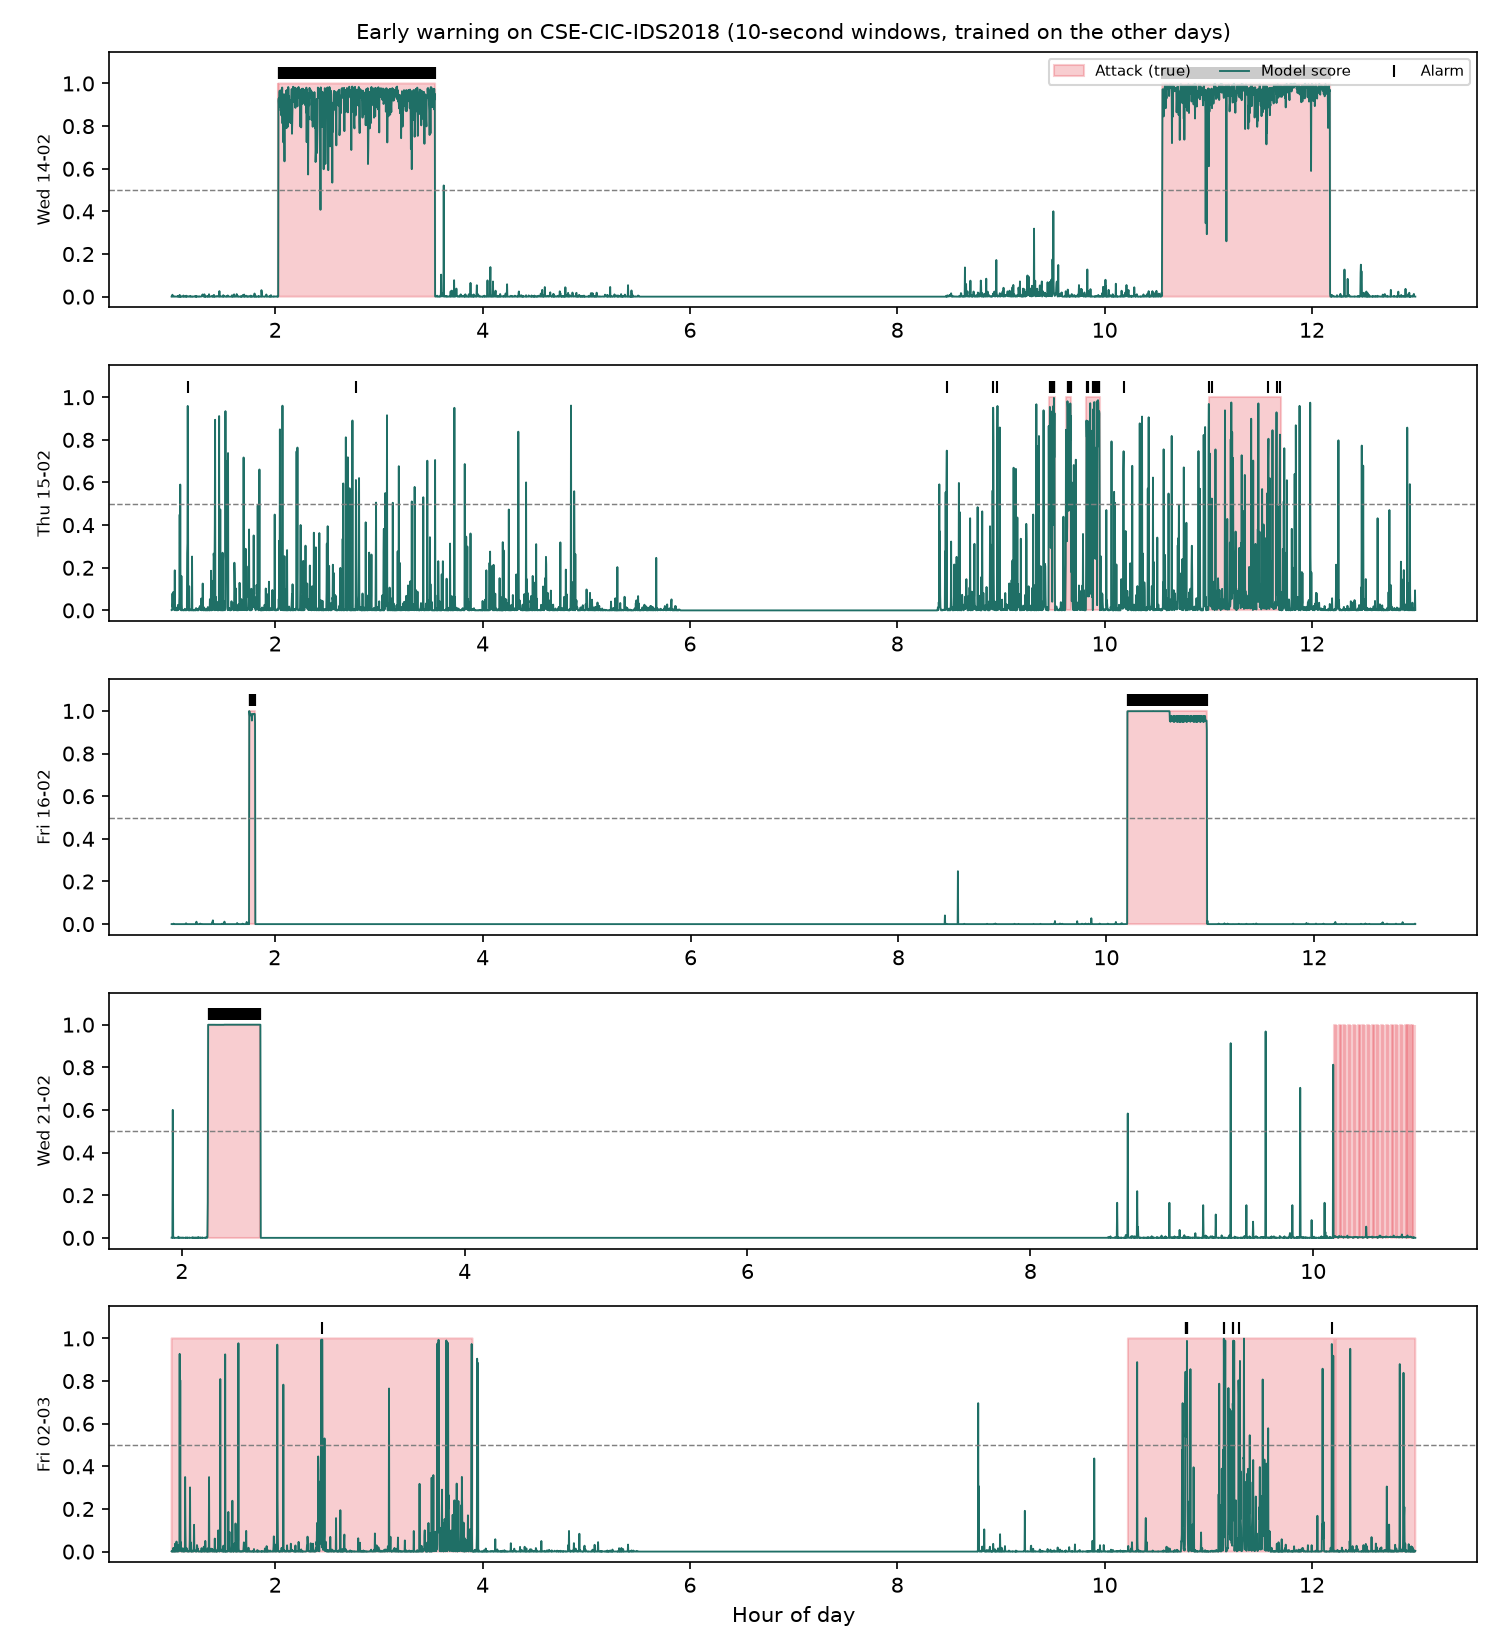
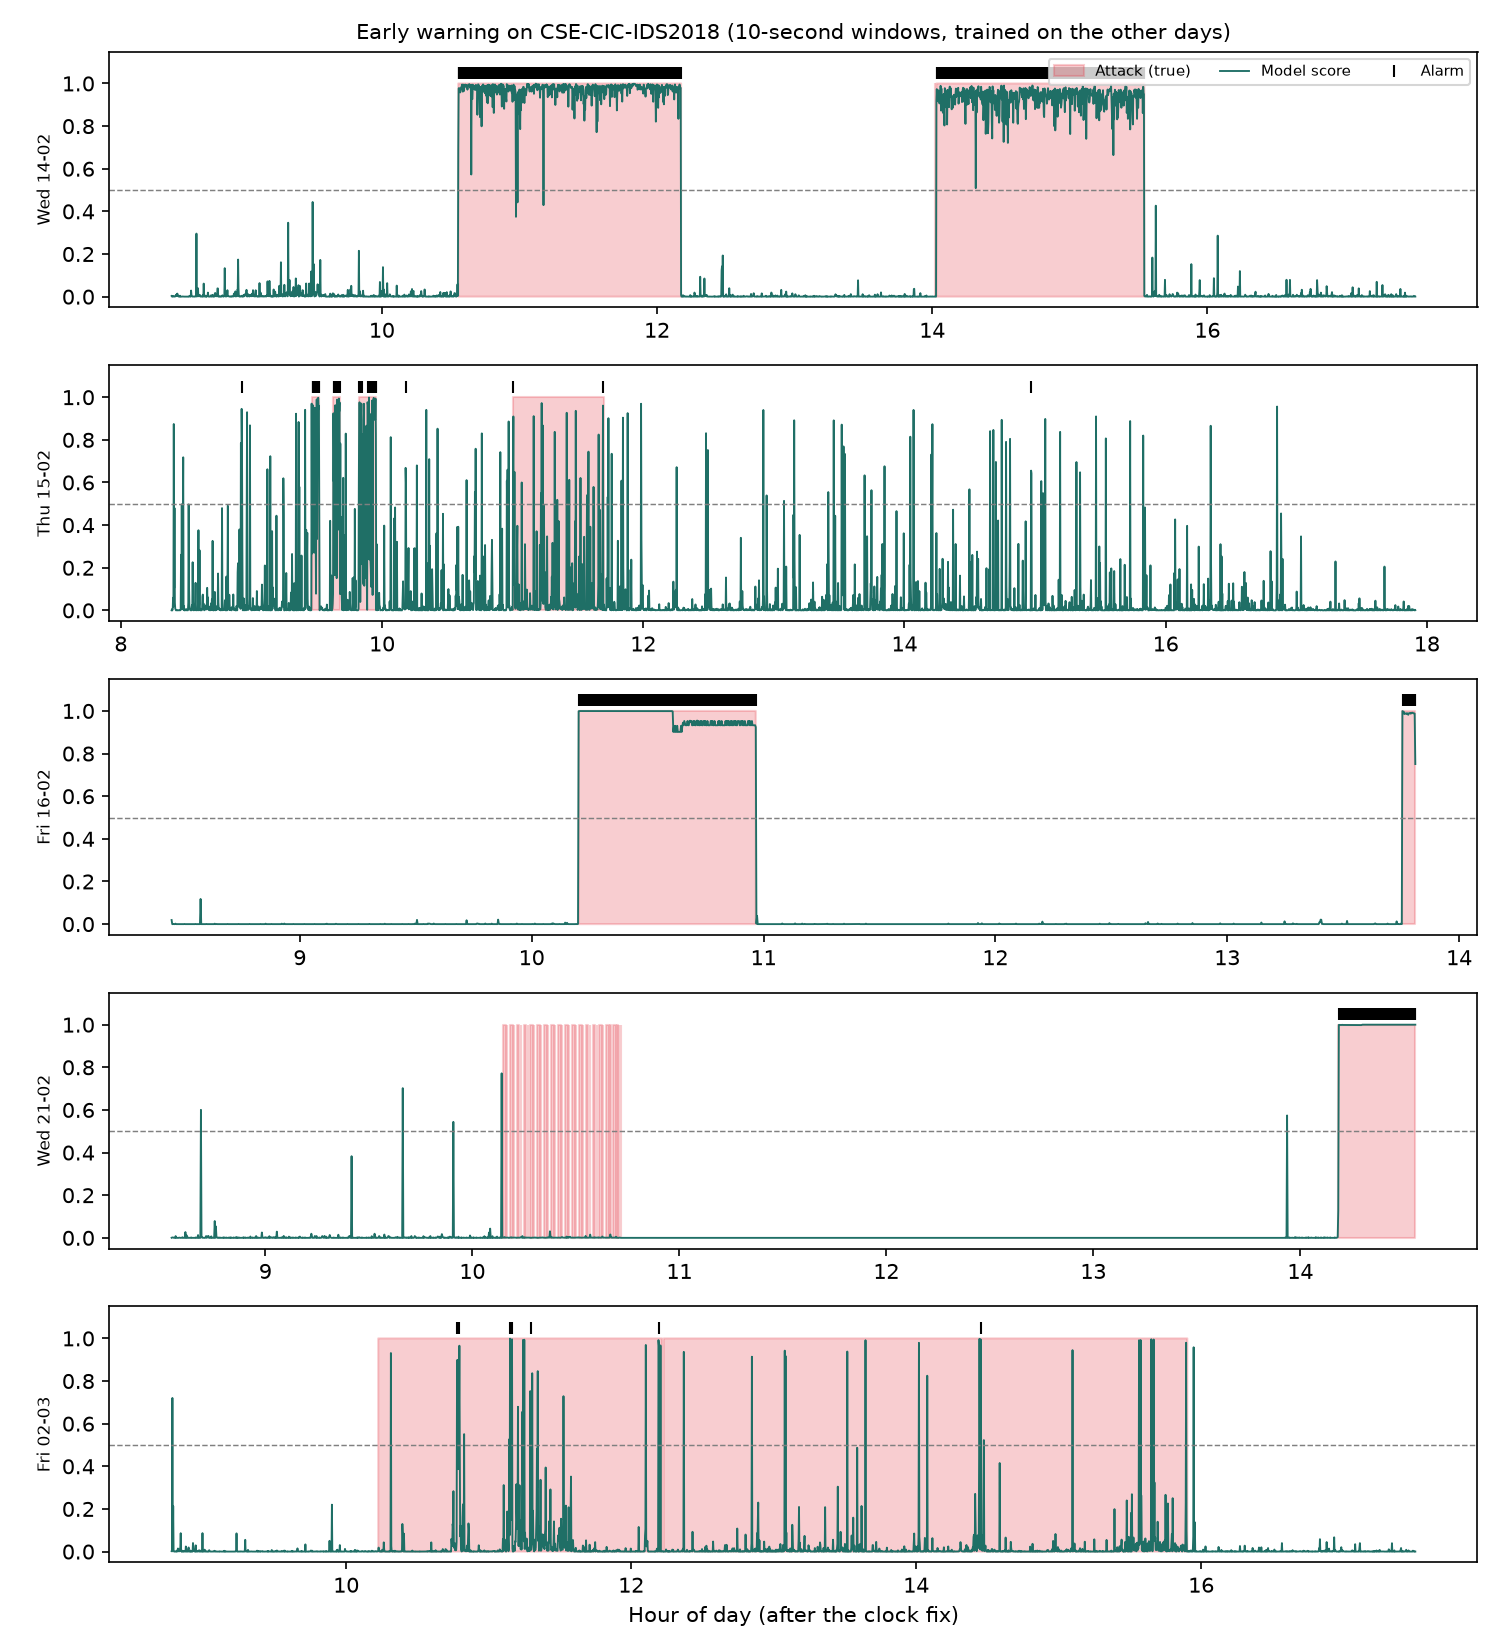
Tool 3: timestamp check, final early warning results

diff --git a/tool3_early_warning/early_warning.py b/tool3_early_warning/early_warning.py
@@ -13,7 +13,7 @@ from xgboost import XGBClassifier
 
 warnings.filterwarnings("ignore")
 
-# Tool 3: early warning on CSE-CIC-IDS2018.
+# Tool 3 (version 2): early warning on CSE-CIC-IDS2018.
 # Traffic is grouped into windows of W seconds. A model scores each window, and an alarm is raised
 # when two windows in a row score high. Optional: python tool3_early_warning/early_warning.py 30
 W = int(sys.argv[1]) if len(sys.argv) > 1 else 10
@@ -24,6 +24,7 @@ MIN_EPISODE = 3               # ignore attack episodes shorter than this many wi
 MERGE_GAP = max(1, 60 // W)   # attack windows closer than 60 seconds belong to one episode
 PRE = max(1, 60 // W)         # look back 60 seconds before an episode starts
 THRESH = 0.5                  # score level that counts as "high"
+CLOCK_FIX_BEFORE = 8          # the timestamps look like a 12-hour clock with no AM/PM: hours before 8 are really afternoon
 
 DAYS = [
     ("Wednesday-14-02", dt.date(2018, 2, 14), "Wed 14-02"),
@@ -77,17 +78,30 @@ def build_windows(prefix, expected, label):
         P = p if P is None else P.add(p, fill_value=0)
     feat = S / C.replace(0, np.nan)
     feat["n_flows"], feat["n_ports"], feat["attack_flows"] = N, P, A
-    full = pd.RangeIndex(int(feat.index.min()), int(feat.index.max()) + 1)
-    feat = feat.reindex(full)
-    for c in ["n_flows", "n_ports", "attack_flows"]:
-        feat[c] = feat[c].fillna(0)
-    for c in ["n_flows", "n_ports"]:   # how unusual is this window compared with the last 5 minutes?
-        base = feat[c].shift(1).rolling(max(5, 300 // W), min_periods=3).median()
-        feat[c + "_ratio"] = feat[c] / (base + 1)
     feat["t_start"] = feat.index * W
     feat["day"] = label
-    print(f"  {label}: {len(feat)} windows, {int((feat['attack_flows'] >= MIN_ATTACK_FLOWS).sum())} under attack")
     return feat.reset_index(drop=True)
+
+
+def fix_day(d, label):
+    """Fix the clock, line the windows up in time, and add 'how unusual is this window' features."""
+    d = d[d["n_flows"] > 0].copy()
+    before = sorted(set((d["t_start"] // 3600).astype(int)))
+    d["t_start"] = np.where(d["t_start"] < CLOCK_FIX_BEFORE * 3600, d["t_start"] + 12 * 3600, d["t_start"])
+    after = sorted(set((d["t_start"] // 3600).astype(int)))
+    print(f"  {label}: hours with traffic before the clock fix {before}; after {after}")
+    d.index = (d["t_start"] // W).astype(int)
+    d = d[~d.index.duplicated(keep="first")].sort_index()
+    d = d.reindex(pd.RangeIndex(int(d.index.min()), int(d.index.max()) + 1))
+    d["day"] = label
+    for c in ["n_flows", "n_ports", "attack_flows"]:
+        d[c] = d[c].fillna(0)
+    d["active"] = (d["n_flows"] > 0).astype(int)
+    for c in ["n_flows", "n_ports"]:
+        base = d[c].shift(1).rolling(max(5, 300 // W), min_periods=3).median()
+        d[c + "_ratio"] = d[c] / (base + 1)
+    d["t_start"] = d.index * W
+    return d.reset_index(drop=True)
 
 
 def find_episodes(y):
@@ -104,26 +118,29 @@ def find_episodes(y):
     return [(a, b) for a, b in eps if b - a + 1 >= MIN_EPISODE]
 
 
-# 1. Build (or load) the window table
+# 1. Build (or load) the window table, then fix the clock
 try:
-    allw = pd.read_csv(CACHE)
+    raw = pd.read_csv(CACHE)
     print(f"Loaded {CACHE}")
 except FileNotFoundError:
-    print("Building windows (this reads six large files and takes a few minutes)...")
-    allw = pd.concat([build_windows(pf, d, lb) for pf, d, lb in DAYS], ignore_index=True)
-    allw.to_csv(CACHE, index=False)
+    print("Building windows (this reads five large files and takes a few minutes)...")
+    raw = pd.concat([build_windows(pf, d, lb) for pf, d, lb in DAYS], ignore_index=True)
+    raw.to_csv(CACHE, index=False)
     print(f"Saved {CACHE}")
-
+raw = raw.drop(columns=[c for c in raw.columns if c.endswith("_ratio") or c == "active"])
+allw = pd.concat([fix_day(raw[raw["day"] == lb], lb) for _, _, lb in DAYS], ignore_index=True)
 allw["y_now"] = (allw["attack_flows"] >= MIN_ATTACK_FLOWS).astype(int)
-FEATS = [c for c in allw.columns if c not in ("attack_flows", "day", "t_start", "y_now")]
+FEATS = [c for c in allw.columns if c not in ("attack_flows", "day", "t_start", "y_now", "active")]
 
 # 2. One day at a time: train on the other days, then watch the new day
 ep_rows, day_rows, curves = [], [], {}
 for _, _, label in DAYS:
-    tr, te = allw[allw["day"] != label], allw[allw["day"] == label].reset_index(drop=True)
+    tr = allw[(allw["day"] != label) & (allw["active"] == 1)]
+    te = allw[allw["day"] == label].reset_index(drop=True)
     model = XGBClassifier(n_estimators=200, max_depth=4, learning_rate=0.1, n_jobs=-1)
     model.fit(tr[FEATS], tr["y_now"])
-    p = model.predict_proba(te[FEATS])[:, 1]
+    act = te["active"].values == 1
+    p = np.where(act, model.predict_proba(te[FEATS])[:, 1], 0.0)   # windows with no traffic cannot alarm
     y = te["y_now"].values
     flag = p >= THRESH
     alarm = flag & np.r_[False, flag[:-1]]            # two high windows in a row
@@ -135,30 +152,28 @@ for _, _, label in DAYS:
     for s, e in eps:
         ext[max(0, s - PRE): min(len(te), e + PRE + 1)] = True
         pre[max(0, s - PRE): s] = True
-    pre &= (y == 0)
-    calm = ~ext
+    pre &= (y == 0) & act
+    calm = ~ext & act                                  # calm = quiet windows that do have traffic
     calm_hours = calm.sum() * W / 3600
     false_alarms = int((starts & calm).sum())
 
     for k, (s, e) in enumerate(eps, 1):
         cand = [w for w in range(max(0, s - PRE), e + 1) if alarm[w]]
         duration = (e - s + 1) * W
+        base = dict(day=label, episode=k, start_hour=round(te.loc[s, "t_start"] / 3600, 2), duration_s=duration)
         if cand:
             delay = (cand[0] + 1 - s) * W
-            row = dict(day=label, episode=k, start_min=round(te.loc[s, "t_start"] / 60, 1),
-                       duration_s=duration, detected=True, seconds_to_alarm=delay,
-                       share_still_ahead=round(max(0.0, 1 - delay / duration), 3))
+            ep_rows.append({**base, "detected": True, "seconds_to_alarm": delay,
+                            "share_still_ahead": round(max(0.0, 1 - delay / duration), 3)})
         else:
-            row = dict(day=label, episode=k, start_min=round(te.loc[s, "t_start"] / 60, 1),
-                       duration_s=duration, detected=False, seconds_to_alarm=np.nan, share_still_ahead=0.0)
-        ep_rows.append(row)
+            ep_rows.append({**base, "detected": False, "seconds_to_alarm": np.nan, "share_still_ahead": 0.0})
 
     auc = np.nan
     if pre.sum() >= 3 and calm.sum() >= 3:
         lab = np.r_[np.ones(pre.sum()), np.zeros(calm.sum())]
         auc = roc_auc_score(lab, np.r_[p[pre], p[calm]])
     day_rows.append(dict(
-        day=label, episodes=len(eps),
+        day=label, episodes=len(eps), active_hours=round(act.sum() * W / 3600, 1),
         attack_window_recall=round(float((flag & (y == 1)).sum() / max(1, y.sum())), 3),
         false_alarms=false_alarms, false_alarms_per_calm_hour=round(false_alarms / max(calm_hours, 1e-9), 2),
         pre_onset_windows=int(pre.sum()), pre_onset_auc=round(float(auc), 3) if not np.isnan(auc) else np.nan))
@@ -172,10 +187,11 @@ print(eps_df.to_string(index=False))
 print("\nPer day:")
 print(day_df.to_string(index=False))
 det = eps_df[eps_df["detected"]]
-print(f"\nEpisodes detected: {len(det)} of {len(eps_df)}")
-if len(det):
-    print(f"Median seconds from attack start to alarm: {det['seconds_to_alarm'].median():.0f}")
-    print(f"Median share of the attack still ahead when the alarm fired: {det['share_still_ahead'].median():.1%}")
+early = eps_df[eps_df["share_still_ahead"] >= 0.9]
+print(f"\nEpisodes with an alarm: {len(det)} of {len(eps_df)}")
+print(f"Episodes alarmed with at least 90% of the attack still ahead: {len(early)} of {len(eps_df)}")
+if len(early):
+    print(f"Median seconds to alarm in those episodes: {early['seconds_to_alarm'].median():.0f}")
 
 # 3. Chart: score over time, true attack periods shaded, alarms marked
 fig, axes = plt.subplots(len(DAYS), 1, figsize=(10, 2.0 * len(DAYS) + 1), sharey=True)
@@ -188,7 +204,7 @@ for ax, (_, _, label) in zip(np.atleast_1d(axes), DAYS):
     ax.set_ylim(-0.05, 1.15)
     ax.set_ylabel(label, fontsize=8)
 np.atleast_1d(axes)[0].legend(loc="upper right", ncol=3, fontsize=7)
-np.atleast_1d(axes)[-1].set_xlabel("Hour of day")
+np.atleast_1d(axes)[-1].set_xlabel("Hour of day (after the clock fix)")
 np.atleast_1d(axes)[0].set_title(f"Early warning on CSE-CIC-IDS2018 ({W}-second windows, trained on the other days)", fontsize=10)
 plt.tight_layout()
 plt.savefig("docs/tool3_chart.png", dpi=150)

diff --git a/tool3_early_warning/check_timestamps.py b/tool3_early_warning/check_timestamps.py
@@ -1,0 +1,28 @@
+import glob
+import warnings
+
+import pandas as pd
+
+warnings.filterwarnings("ignore")
+
+# Looks at how the Timestamp column of two daily files is written, and how many rows land on the expected date.
+CHECK = [("Friday-16-02", "2018-02-16"), ("Wednesday-21-02", "2018-02-21")]
+
+for prefix, expected in CHECK:
+    files = glob.glob(f"data2018/{prefix}*.csv")
+    if not files:
+        print(prefix, "not found")
+        continue
+    df = pd.read_csv(files[0], usecols=lambda c: c.strip() in ("Timestamp", "Label"), low_memory=False)
+    df.columns = df.columns.str.strip()
+    df = df[df["Label"] != "Label"]
+    print(f"\n{prefix}: {len(df):,} rows")
+    print("Sample timestamps (one every 100,000 rows):", df["Timestamp"].iloc[::100000].tolist())
+    for dayfirst in (True, False):
+        t = pd.to_datetime(df["Timestamp"], dayfirst=dayfirst, errors="coerce")
+        on_day = (t.dt.date.astype(str) == expected).mean()
+        print(f"  dayfirst={dayfirst}: cannot read {t.isna().mean():.1%}, on {expected}: {on_day:.1%}")
+        print("   most common dates:", t.dt.date.astype(str).value_counts().head(4).to_dict())
+    t = pd.to_datetime(df["Timestamp"], dayfirst=True, errors="coerce")
+    print("  rows per hour of the day (dayfirst=True):", t.dt.hour.value_counts().sort_index().to_dict())
+    print("  label counts:", df["Label"].value_counts().head(4).to_dict())
